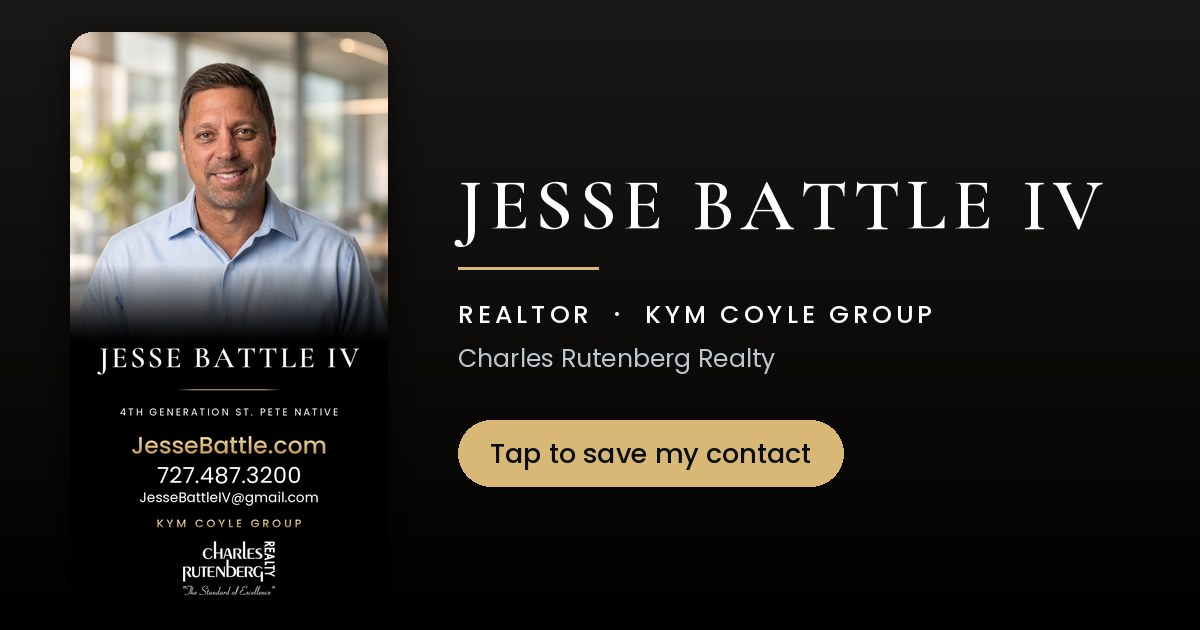
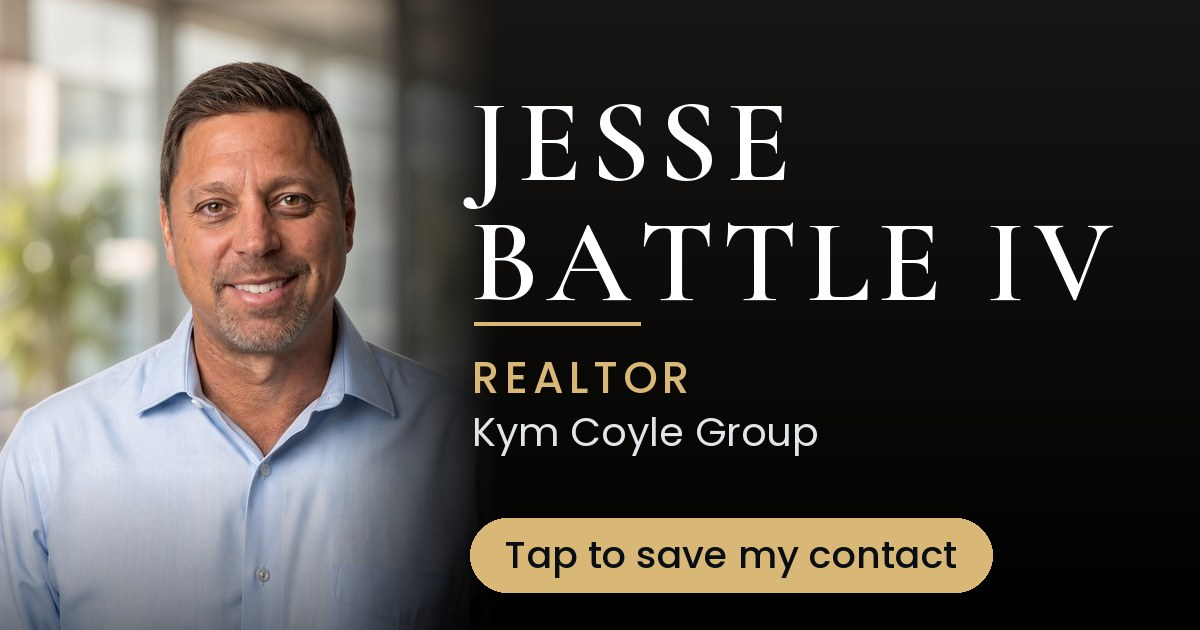
Rebuild digital cards to fit one screen, with a readable link preview
The tall card image pushed every button below the fold on a phone, and the
link preview's type shrank to unreadable inside the iMessage bubble.

- Page is now the card in HTML: headshot, name, tagline, Save Contact, and
  tappable phone / text / email / website rows, in a 100dvh flex column
  where only the photo shrinks. Fits 390x664, 375x553 and 430x800.
- share.jpg drops the mini card for the headshot plus big type.
- Titles use a comma instead of " | " so iMessage shows the full name.
- card.jpg removed; photo.jpg and crr-logo.png added. HANDOFF.md updated.

Claude-Session: https://claude.ai/code/session_01CSGHYgwcjUsWvrqUYHK8EN

diff --git a/card/index.html b/card/index.html
@@ -3,82 +3,117 @@
 <head>
 <meta charset="utf-8">
 <meta name="viewport" content="width=device-width, initial-scale=1, viewport-fit=cover">
-<title>Jesse Battle IV | Realtor</title>
-<!-- Hidden digital business card. Not linked from the nav, not in sitemap.xml,
-     noindex. Share by texting the URL; iMessage shows share.jpg as the preview.
-     See HANDOFF.md "Digital cards". -->
+<title>Jesse Battle IV, Realtor</title>
+<!-- Hidden digital business card. Not in the nav or sitemap.xml, noindex.
+     Built to fit one phone screen with no scrolling: the photo flexes to fill
+     whatever height is left. See HANDOFF.md "Digital cards". -->
 <meta name="robots" content="noindex, nofollow">
-<meta name="description" content="Kym Coyle Group, Charles Rutenberg Realty. 4th generation St. Pete native.">
+<meta name="description" content="Kym Coyle Group at Charles Rutenberg Realty. 4th generation St. Pete native.">
 <meta name="theme-color" content="#000000">
 <link rel="icon" href="/favicon.ico" sizes="any">
 <link rel="apple-touch-icon" href="/apple-touch-icon.png">
 <meta property="og:type" content="profile">
-<meta property="og:title" content="Jesse Battle IV | Realtor">
-<meta property="og:description" content="Kym Coyle Group, Charles Rutenberg Realty. 4th generation St. Pete native.">
+<meta property="og:title" content="Jesse Battle IV, Realtor">
+<meta property="og:description" content="Kym Coyle Group at Charles Rutenberg Realty. 4th generation St. Pete native.">
 <meta property="og:url" content="https://jessebattle.com/card/">
 <meta property="og:image" content="https://jessebattle.com/card/share.jpg">
 <meta property="og:image:width" content="1200">
 <meta property="og:image:height" content="630">
 <meta name="twitter:card" content="summary_large_image">
-<meta name="twitter:title" content="Jesse Battle IV | Realtor">
-<meta name="twitter:description" content="Kym Coyle Group, Charles Rutenberg Realty. 4th generation St. Pete native.">
+<meta name="twitter:title" content="Jesse Battle IV, Realtor">
+<meta name="twitter:description" content="Kym Coyle Group at Charles Rutenberg Realty. 4th generation St. Pete native.">
 <meta name="twitter:image" content="https://jessebattle.com/card/share.jpg">
 <link rel="preconnect" href="https://fonts.googleapis.com">
 <link rel="preconnect" href="https://fonts.gstatic.com" crossorigin>
-<link href="https://fonts.googleapis.com/css2?family=Poppins:wght@400;500;600&display=swap" rel="stylesheet">
+<link href="https://fonts.googleapis.com/css2?family=Cormorant+Garamond:wght@600&family=Poppins:wght@400;500;600&display=swap" rel="stylesheet">
 <style>
 :root {
-  --bg-top: #141414; --bg-bot: #000000;
+  --bg-top: #151412; --bg-bot: #000000;
   --accent: #d9b877; --accent-2: #b8914e; --on-accent: #1a1206;
-  --fg: #ffffff; --line: #3a3226; --tile: rgba(217,184,119,.06);
+  --fg: #ffffff; --muted: #c9c3b8; --line: #3a3226; --tile: rgba(217,184,119,.07);
+  --name: 'Cormorant Garamond', Georgia, serif;
   color-scheme: dark;
 }
 * { box-sizing: border-box; }
-html, body { margin: 0; }
+html, body { margin: 0; height: 100%; }
 body {
-  min-height: 100vh; min-height: 100dvh;
-  background: linear-gradient(var(--bg-top), var(--bg-bot) 55%) fixed, var(--bg-bot);
+  background: linear-gradient(var(--bg-top), var(--bg-bot) 60%) fixed, var(--bg-bot);
   color: var(--fg);
-  font: 16px/1.4 Poppins, -apple-system, BlinkMacSystemFont, "Segoe UI", sans-serif;
+  font: 16px/1.35 Poppins, -apple-system, BlinkMacSystemFont, "Segoe UI", sans-serif;
   -webkit-font-smoothing: antialiased;
 }
 main {
-  max-width: 440px; margin: 0 auto;
-  padding-top: max(16px, env(safe-area-inset-top));
-  padding-bottom: max(28px, env(safe-area-inset-bottom));
+  max-width: 460px; margin: 0 auto;
+  min-height: 100vh; min-height: 100dvh;
+  display: flex; flex-direction: column; gap: 10px;
+  padding-top: max(12px, env(safe-area-inset-top));
+  padding-bottom: max(14px, env(safe-area-inset-bottom));
   padding-left: max(16px, env(safe-area-inset-left));
   padding-right: max(16px, env(safe-area-inset-right));
-  display: flex; flex-direction: column; gap: 14px;
 }
-.card { width: 100%; height: auto; display: block; border-radius: 18px; box-shadow: 0 14px 44px rgba(0,0,0,.55); }
+.photo {
+  flex: 1 1 0; min-height: 150px; position: relative;
+  border-radius: 18px; overflow: hidden;
+}
+.photo img { width: 100%; height: 100%; object-fit: cover; object-position: 50% 12%; display: block; }
+.photo::after {
+  content: ""; position: absolute; inset: auto 0 0 0; height: 38%;
+  background: linear-gradient(transparent, var(--bg-bot));
+}
+h1 {
+  margin: -34px 0 0; position: relative; z-index: 1; text-align: center;
+  font-family: var(--name); font-weight: 600; letter-spacing: .09em;
+  font-size: clamp(30px, 9vw, 42px); line-height: 1; text-transform: uppercase;
+}
+.rule { width: 120px; height: 2px; margin: 2px auto 0; background: linear-gradient(90deg, transparent, var(--accent), transparent); }
+.tagline {
+  margin: 0; text-align: center; text-transform: uppercase;
+  font-size: 12.5px; letter-spacing: .2em; color: var(--fg);
+}
 .save {
   display: flex; align-items: center; justify-content: center; gap: 10px;
-  padding: 18px; border-radius: 14px;
+  min-height: 54px; border-radius: 14px; margin-top: 2px;
   background: linear-gradient(var(--accent), var(--accent-2));
-  color: var(--on-accent); font-weight: 600; font-size: 19px; text-decoration: none;
+  color: var(--on-accent); font-weight: 600; font-size: 18px; text-decoration: none;
 }
-.actions { display: grid; grid-template-columns: repeat(4, 1fr); gap: 10px; }
-.actions a {
-  display: flex; flex-direction: column; align-items: center; gap: 6px;
-  padding: 14px 4px; border: 1px solid var(--line); border-radius: 14px;
-  background: var(--tile); color: var(--fg); text-decoration: none; font-size: 13px;
+.rows { display: flex; flex-direction: column; gap: 8px; }
+.row { display: flex; gap: 8px; }
+.row a {
+  display: flex; align-items: center; gap: 12px; min-height: 48px; padding: 0 14px;
+  border: 1px solid var(--line); border-radius: 12px; background: var(--tile);
+  color: var(--fg); text-decoration: none; font-size: 16px; min-width: 0;
 }
-svg { width: 26px; height: 26px; fill: none; stroke: var(--accent); stroke-width: 1.8; stroke-linecap: round; stroke-linejoin: round; }
-.save svg { width: 22px; height: 22px; stroke: var(--on-accent); stroke-width: 2; }
-a:focus-visible { outline: 3px solid var(--accent); outline-offset: 3px; }
+.row a.wide { flex: 1; }
+.row a.wide span { overflow: hidden; text-overflow: ellipsis; white-space: nowrap; }
+.row a.sq { flex: 0 0 auto; justify-content: center; padding: 0 16px; font-size: 14px; gap: 8px; }
+.row a.site span { color: var(--accent); font-weight: 500; }
+svg { width: 22px; height: 22px; flex: none; fill: none; stroke: var(--accent); stroke-width: 1.8; stroke-linecap: round; stroke-linejoin: round; }
+.save svg { stroke: var(--on-accent); stroke-width: 2; }
+footer { display: flex; align-items: center; justify-content: center; gap: 14px; padding-top: 2px; }
+.team { margin: 0; font-size: 11.5px; letter-spacing: .22em; text-transform: uppercase; color: var(--accent); font-weight: 500; }
+.logo { height: 40px; width: auto; }
+.logo.pb { height: 30px; }
+a:focus-visible { outline: 3px solid var(--accent); outline-offset: 2px; }
 a:active { transform: scale(.98); }
+@media (max-height: 640px) { .logo { height: 32px; } .logo.pb { height: 24px; } h1 { font-size: clamp(28px, 8vw, 36px); } }
 </style>
 </head>
 <body>
 <main>
-  <img class="card" src="card.jpg" width="1080" height="1920" alt="Digital business card: Jesse Battle IV, 4th Generation St. Pete Native. JesseBattle.com, 727.487.3200, JesseBattleIV@gmail.com. Kym Coyle Group, Charles Rutenberg Realty.">
+  <div class="photo"><img src="photo.jpg" width="900" height="1000" alt="Jesse Battle IV"></div>
+  <h1>Jesse Battle IV</h1>
+  <div class="rule" aria-hidden="true"></div>
+  <p class="tagline">4th Generation St. Pete Native</p>
   <a class="save" href="jesse-battle-iv.vcf"><svg viewBox="0 0 24 24" aria-hidden="true"><circle cx="12" cy="8" r="4"/><path d="M4 21c0-4 4-6 8-6s8 2 8 6"/><path d="M19 3v6M16 6h6"/></svg>Save Contact</a>
-  <nav class="actions" aria-label="Contact">
-    <a href="tel:+17274873200"><svg viewBox="0 0 24 24" aria-hidden="true"><path d="M5 3h4l2 5-3 2a12 12 0 0 0 6 6l2-3 5 2v4a2 2 0 0 1-2 2A18 18 0 0 1 3 5a2 2 0 0 1 2-2z"/></svg>Call</a>
-    <a href="sms:+17274873200"><svg viewBox="0 0 24 24" aria-hidden="true"><path d="M4 5h16v11H9l-5 4z"/></svg>Text</a>
-    <a href="mailto:jessebattleiv@gmail.com"><svg viewBox="0 0 24 24" aria-hidden="true"><rect x="3" y="5" width="18" height="14" rx="2"/><path d="M3 7l9 6 9-6"/></svg>Email</a>
-    <a href="https://jessebattle.com"><svg viewBox="0 0 24 24" aria-hidden="true"><circle cx="12" cy="12" r="9"/><path d="M3 12h18M12 3a14 14 0 0 1 0 18M12 3a14 14 0 0 0 0 18"/></svg>Website</a>
-  </nav>
+  <div class="rows">
+    <div class="row">
+      <a class="wide" href="tel:+17274873200"><svg viewBox="0 0 24 24" aria-hidden="true"><path d="M5 3h4l2 5-3 2a12 12 0 0 0 6 6l2-3 5 2v4a2 2 0 0 1-2 2A18 18 0 0 1 3 5a2 2 0 0 1 2-2z"/></svg><span>727.487.3200</span></a>
+      <a class="sq" href="sms:+17274873200" aria-label="Text 727.487.3200"><svg viewBox="0 0 24 24" aria-hidden="true"><path d="M4 5h16v11H9l-5 4z"/></svg>Text</a>
+    </div>
+    <div class="row"><a class="wide" href="mailto:jessebattleiv@gmail.com"><svg viewBox="0 0 24 24" aria-hidden="true"><rect x="3" y="5" width="18" height="14" rx="2"/><path d="M3 7l9 6 9-6"/></svg><span>JesseBattleIV@gmail.com</span></a></div>
+    <div class="row"><a class="wide site" href="https://jessebattle.com"><svg viewBox="0 0 24 24" aria-hidden="true"><circle cx="12" cy="12" r="9"/><path d="M3 12h18M12 3a14 14 0 0 1 0 18M12 3a14 14 0 0 0 0 18"/></svg><span>JesseBattle.com</span></a></div>
+  </div>
+  <footer><p class="team">Kym Coyle Group</p><img class="logo" src="crr-logo.png" width="300" height="160" alt="Charles Rutenberg Realty, The Standard of Excellence"></footer>
 </main>
 </body>
 </html>

diff --git a/pb/index.html b/pb/index.html
@@ -3,82 +3,117 @@
 <head>
 <meta charset="utf-8">
 <meta name="viewport" content="width=device-width, initial-scale=1, viewport-fit=cover">
-<title>Jesse Battle IV | Pinellas Builders</title>
-<!-- Hidden digital business card. Not linked from the nav, not in sitemap.xml,
-     noindex. Share by texting the URL; iMessage shows share.jpg as the preview.
-     See HANDOFF.md "Digital cards". -->
+<title>Jesse Battle IV, Pinellas Builders</title>
+<!-- Hidden digital business card. Not in the nav or sitemap.xml, noindex.
+     Built to fit one phone screen with no scrolling: the photo flexes to fill
+     whatever height is left. See HANDOFF.md "Digital cards". -->
 <meta name="robots" content="noindex, nofollow">
 <meta name="description" content="Certified General Contractor, FL CGC1506583. Licensed since 2003.">
 <meta name="theme-color" content="#040b13">
 <link rel="icon" href="/favicon.ico" sizes="any">
 <link rel="apple-touch-icon" href="/apple-touch-icon.png">
 <meta property="og:type" content="profile">
-<meta property="og:title" content="Jesse Battle IV | Pinellas Builders">
+<meta property="og:title" content="Jesse Battle IV, Pinellas Builders">
 <meta property="og:description" content="Certified General Contractor, FL CGC1506583. Licensed since 2003.">
 <meta property="og:url" content="https://jessebattle.com/pb/">
 <meta property="og:image" content="https://jessebattle.com/pb/share.jpg">
 <meta property="og:image:width" content="1200">
 <meta property="og:image:height" content="630">
 <meta name="twitter:card" content="summary_large_image">
-<meta name="twitter:title" content="Jesse Battle IV | Pinellas Builders">
+<meta name="twitter:title" content="Jesse Battle IV, Pinellas Builders">
 <meta name="twitter:description" content="Certified General Contractor, FL CGC1506583. Licensed since 2003.">
 <meta name="twitter:image" content="https://jessebattle.com/pb/share.jpg">
 <link rel="preconnect" href="https://fonts.googleapis.com">
 <link rel="preconnect" href="https://fonts.gstatic.com" crossorigin>
-<link href="https://fonts.googleapis.com/css2?family=Poppins:wght@400;500;600&display=swap" rel="stylesheet">
+<link href="https://fonts.googleapis.com/css2?family=Archivo:wght@800&family=Poppins:wght@400;500;600&display=swap" rel="stylesheet">
 <style>
 :root {
   --bg-top: #0c2032; --bg-bot: #040b13;
   --accent: #a1ebff; --accent-2: #58b4e2; --on-accent: #04121c;
-  --fg: #ffffff; --line: #1d3a4d; --tile: rgba(161,235,255,.05);
+  --fg: #ffffff; --muted: #b9c9d4; --line: #1d3a4d; --tile: rgba(161,235,255,.06);
+  --name: Archivo, 'Arial Black', sans-serif;
   color-scheme: dark;
 }
 * { box-sizing: border-box; }
-html, body { margin: 0; }
+html, body { margin: 0; height: 100%; }
 body {
-  min-height: 100vh; min-height: 100dvh;
-  background: linear-gradient(var(--bg-top), var(--bg-bot) 55%) fixed, var(--bg-bot);
+  background: linear-gradient(var(--bg-top), var(--bg-bot) 60%) fixed, var(--bg-bot);
   color: var(--fg);
-  font: 16px/1.4 Poppins, -apple-system, BlinkMacSystemFont, "Segoe UI", sans-serif;
+  font: 16px/1.35 Poppins, -apple-system, BlinkMacSystemFont, "Segoe UI", sans-serif;
   -webkit-font-smoothing: antialiased;
 }
 main {
-  max-width: 440px; margin: 0 auto;
-  padding-top: max(16px, env(safe-area-inset-top));
-  padding-bottom: max(28px, env(safe-area-inset-bottom));
+  max-width: 460px; margin: 0 auto;
+  min-height: 100vh; min-height: 100dvh;
+  display: flex; flex-direction: column; gap: 10px;
+  padding-top: max(12px, env(safe-area-inset-top));
+  padding-bottom: max(14px, env(safe-area-inset-bottom));
   padding-left: max(16px, env(safe-area-inset-left));
   padding-right: max(16px, env(safe-area-inset-right));
-  display: flex; flex-direction: column; gap: 14px;
 }
-.card { width: 100%; height: auto; display: block; border-radius: 18px; box-shadow: 0 14px 44px rgba(0,0,0,.55); }
+.photo {
+  flex: 1 1 0; min-height: 150px; position: relative;
+  border-radius: 18px; overflow: hidden;
+}
+.photo img { width: 100%; height: 100%; object-fit: cover; object-position: 50% 12%; display: block; }
+.photo::after {
+  content: ""; position: absolute; inset: auto 0 0 0; height: 38%;
+  background: linear-gradient(transparent, var(--bg-bot));
+}
+h1 {
+  margin: -34px 0 0; position: relative; z-index: 1; text-align: center;
+  font-family: var(--name); font-weight: 800; letter-spacing: .04em;
+  font-size: clamp(30px, 9vw, 42px); line-height: 1; text-transform: uppercase;
+}
+.rule { width: 120px; height: 2px; margin: 2px auto 0; background: linear-gradient(90deg, transparent, var(--accent), transparent); }
+.tagline {
+  margin: 0; text-align: center; text-transform: uppercase;
+  font-size: 12.5px; letter-spacing: .2em; color: var(--fg);
+}
 .save {
   display: flex; align-items: center; justify-content: center; gap: 10px;
-  padding: 18px; border-radius: 14px;
+  min-height: 54px; border-radius: 14px; margin-top: 2px;
   background: linear-gradient(var(--accent), var(--accent-2));
-  color: var(--on-accent); font-weight: 600; font-size: 19px; text-decoration: none;
+  color: var(--on-accent); font-weight: 600; font-size: 18px; text-decoration: none;
 }
-.actions { display: grid; grid-template-columns: repeat(4, 1fr); gap: 10px; }
-.actions a {
-  display: flex; flex-direction: column; align-items: center; gap: 6px;
-  padding: 14px 4px; border: 1px solid var(--line); border-radius: 14px;
-  background: var(--tile); color: var(--fg); text-decoration: none; font-size: 13px;
+.rows { display: flex; flex-direction: column; gap: 8px; }
+.row { display: flex; gap: 8px; }
+.row a {
+  display: flex; align-items: center; gap: 12px; min-height: 48px; padding: 0 14px;
+  border: 1px solid var(--line); border-radius: 12px; background: var(--tile);
+  color: var(--fg); text-decoration: none; font-size: 16px; min-width: 0;
 }
-svg { width: 26px; height: 26px; fill: none; stroke: var(--accent); stroke-width: 1.8; stroke-linecap: round; stroke-linejoin: round; }
-.save svg { width: 22px; height: 22px; stroke: var(--on-accent); stroke-width: 2; }
-a:focus-visible { outline: 3px solid var(--accent); outline-offset: 3px; }
+.row a.wide { flex: 1; }
+.row a.wide span { overflow: hidden; text-overflow: ellipsis; white-space: nowrap; }
+.row a.sq { flex: 0 0 auto; justify-content: center; padding: 0 16px; font-size: 14px; gap: 8px; }
+.row a.site span { color: var(--accent); font-weight: 500; }
+svg { width: 22px; height: 22px; flex: none; fill: none; stroke: var(--accent); stroke-width: 1.8; stroke-linecap: round; stroke-linejoin: round; }
+.save svg { stroke: var(--on-accent); stroke-width: 2; }
+footer { display: flex; align-items: center; justify-content: center; gap: 14px; padding-top: 2px; }
+.team { margin: 0; font-size: 11.5px; letter-spacing: .22em; text-transform: uppercase; color: var(--accent); font-weight: 500; }
+.logo { height: 40px; width: auto; }
+.logo.pb { height: 30px; }
+a:focus-visible { outline: 3px solid var(--accent); outline-offset: 2px; }
 a:active { transform: scale(.98); }
+@media (max-height: 640px) { .logo { height: 32px; } .logo.pb { height: 24px; } h1 { font-size: clamp(28px, 8vw, 36px); } }
 </style>
 </head>
 <body>
 <main>
-  <img class="card" src="card.jpg" width="1080" height="1920" alt="Digital business card: Jesse Battle IV, Certified General Contractor, Pinellas Builders. PinellasBuilders.com, 727.487.3200, Pinellas.Builders@gmail.com. FL CGC1506583, since 2003.">
+  <div class="photo"><img src="photo.jpg" width="900" height="1000" alt="Jesse Battle IV"></div>
+  <h1>Jesse Battle IV</h1>
+  <div class="rule" aria-hidden="true"></div>
+  <p class="tagline">Certified General Contractor</p>
   <a class="save" href="jesse-battle-pinellas-builders.vcf"><svg viewBox="0 0 24 24" aria-hidden="true"><circle cx="12" cy="8" r="4"/><path d="M4 21c0-4 4-6 8-6s8 2 8 6"/><path d="M19 3v6M16 6h6"/></svg>Save Contact</a>
-  <nav class="actions" aria-label="Contact">
-    <a href="tel:+17274873200"><svg viewBox="0 0 24 24" aria-hidden="true"><path d="M5 3h4l2 5-3 2a12 12 0 0 0 6 6l2-3 5 2v4a2 2 0 0 1-2 2A18 18 0 0 1 3 5a2 2 0 0 1 2-2z"/></svg>Call</a>
-    <a href="sms:+17274873200"><svg viewBox="0 0 24 24" aria-hidden="true"><path d="M4 5h16v11H9l-5 4z"/></svg>Text</a>
-    <a href="mailto:pinellas.builders@gmail.com"><svg viewBox="0 0 24 24" aria-hidden="true"><rect x="3" y="5" width="18" height="14" rx="2"/><path d="M3 7l9 6 9-6"/></svg>Email</a>
-    <a href="https://pinellasbuilders.com"><svg viewBox="0 0 24 24" aria-hidden="true"><circle cx="12" cy="12" r="9"/><path d="M3 12h18M12 3a14 14 0 0 1 0 18M12 3a14 14 0 0 0 0 18"/></svg>Website</a>
-  </nav>
+  <div class="rows">
+    <div class="row">
+      <a class="wide" href="tel:+17274873200"><svg viewBox="0 0 24 24" aria-hidden="true"><path d="M5 3h4l2 5-3 2a12 12 0 0 0 6 6l2-3 5 2v4a2 2 0 0 1-2 2A18 18 0 0 1 3 5a2 2 0 0 1 2-2z"/></svg><span>727.487.3200</span></a>
+      <a class="sq" href="sms:+17274873200" aria-label="Text 727.487.3200"><svg viewBox="0 0 24 24" aria-hidden="true"><path d="M4 5h16v11H9l-5 4z"/></svg>Text</a>
+    </div>
+    <div class="row"><a class="wide" href="mailto:pinellas.builders@gmail.com"><svg viewBox="0 0 24 24" aria-hidden="true"><rect x="3" y="5" width="18" height="14" rx="2"/><path d="M3 7l9 6 9-6"/></svg><span>Pinellas.Builders@gmail.com</span></a></div>
+    <div class="row"><a class="wide site" href="https://pinellasbuilders.com"><svg viewBox="0 0 24 24" aria-hidden="true"><circle cx="12" cy="12" r="9"/><path d="M3 12h18M12 3a14 14 0 0 1 0 18M12 3a14 14 0 0 0 0 18"/></svg><span>PinellasBuilders.com</span></a></div>
+  </div>
+  <footer><p class="team">FL CGC1506583 &middot; Since 2003</p><img class="logo pb" src="/pb-logo.png" width="807" height="269" alt="Pinellas Builders"></footer>
 </main>
 </body>
 </html>

diff --git a/HANDOFF.md b/HANDOFF.md
@@ -890,18 +890,27 @@ Save Contact, Call, Text, Email and Website buttons.
 /pb/     Pinellas Builders, navy + blue  contact file: jesse-battle-pinellas-builders.vcf
 ```
 
-Each folder holds `index.html`, `card.jpg` (the 1080x1920 card art),
-`share.jpg` (1200x630 link preview) and the `.vcf`. Keep them hidden: not in
-the nav, not in `sitemap.xml`, and each page carries `noindex`. The pages are
-self-contained (own inline CSS, Poppins from Google Fonts) and do not use
-`style.css`.
+Each folder holds `index.html`, `photo.jpg` (headshot), `share.jpg` (1200x630
+link preview) and the `.vcf`; `/card/` also has `crr-logo.png` (white on
+transparent, lifted from Kym's card), and `/pb/` uses the site's `/pb-logo.png`.
+Keep them hidden: not in the nav, not in `sitemap.xml`, and each page carries
+`noindex`. The pages are self-contained (own inline CSS, fonts from Google
+Fonts) and do not use `style.css`.
+
+The page is the card, built in HTML, and must fit one phone screen with no
+scrolling: `main` is a 100dvh flex column and the photo is the flex item that
+shrinks, so every button stays visible. Checked at 390x664 (iPhone with
+browser bars), 375x553 (SE) and 430x800. v1 used the tall card image instead
+and pushed the buttons off screen; don't go back to that. The share image
+keeps type big (name about 110px on 1200 wide) because iMessage shrinks the
+preview to roughly a quarter of its size.
 
 The `/pb/` card stays on the right side of the non-compete line below: it
 states identity and contact details only (license, entity, phone, email),
 with no services, portfolio, pricing or quote request. Keep it that way.
 
-To change a phone number or email, update all three places in that folder:
-the card art, the `.vcf`, and the links in `index.html`.
+To change a phone number or email, update both places in that folder: the
+`.vcf` and `index.html` (link and visible text).
 
 ---
 
